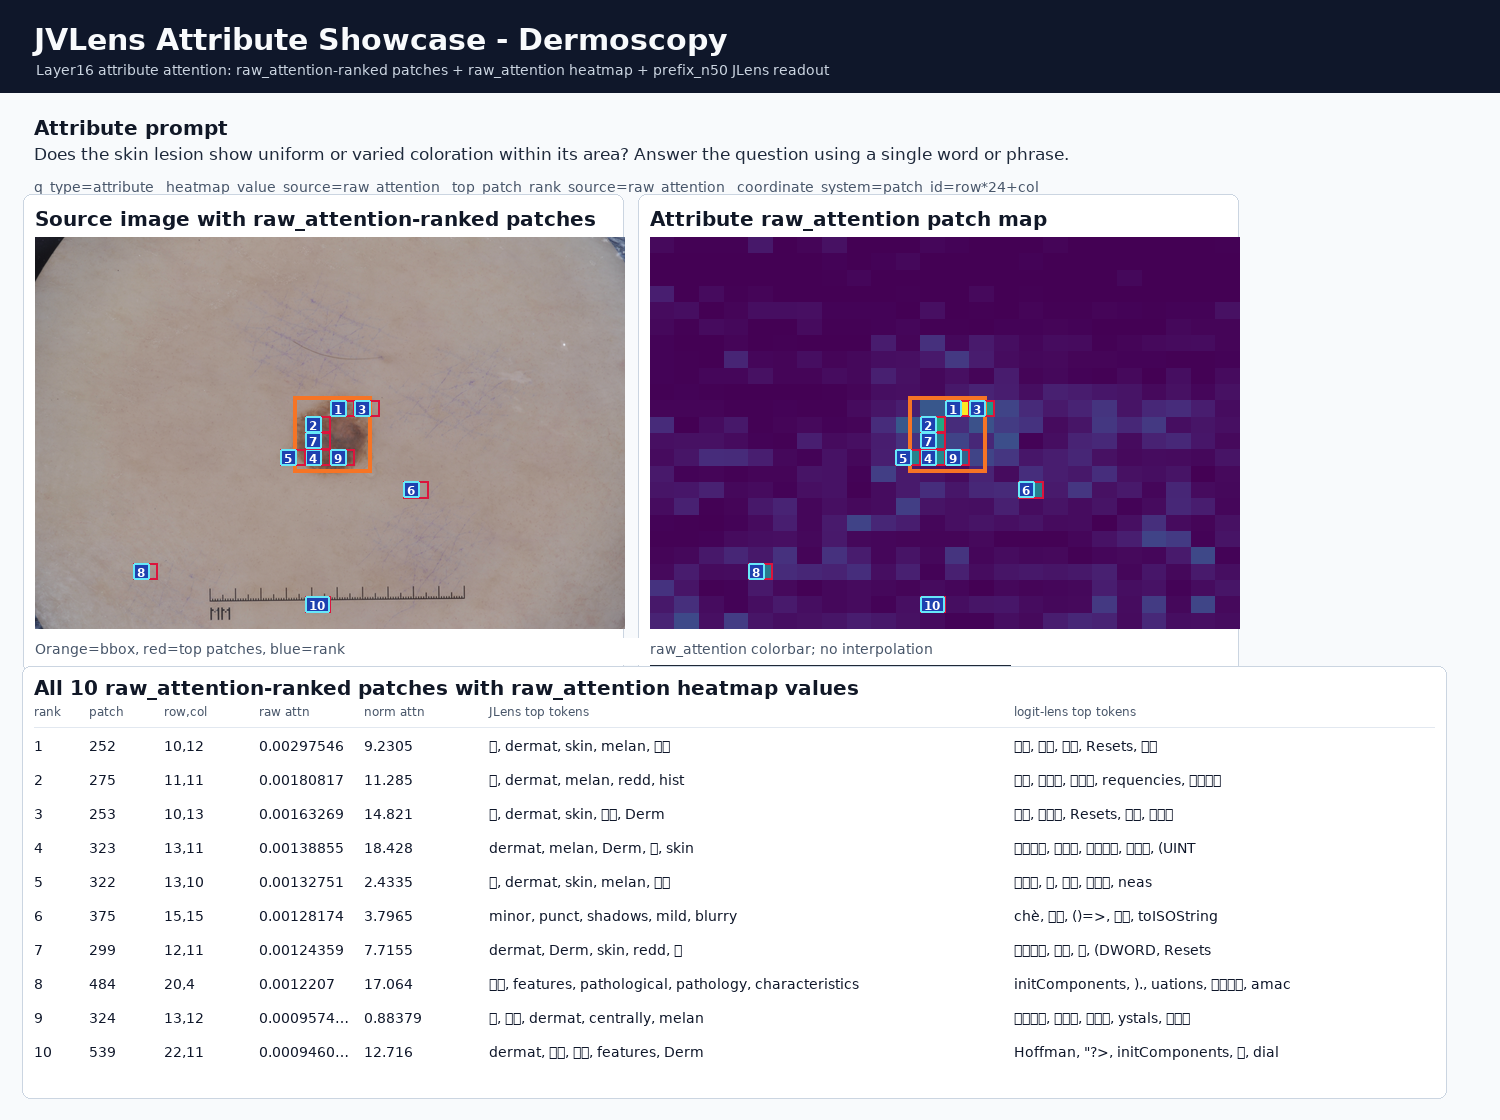
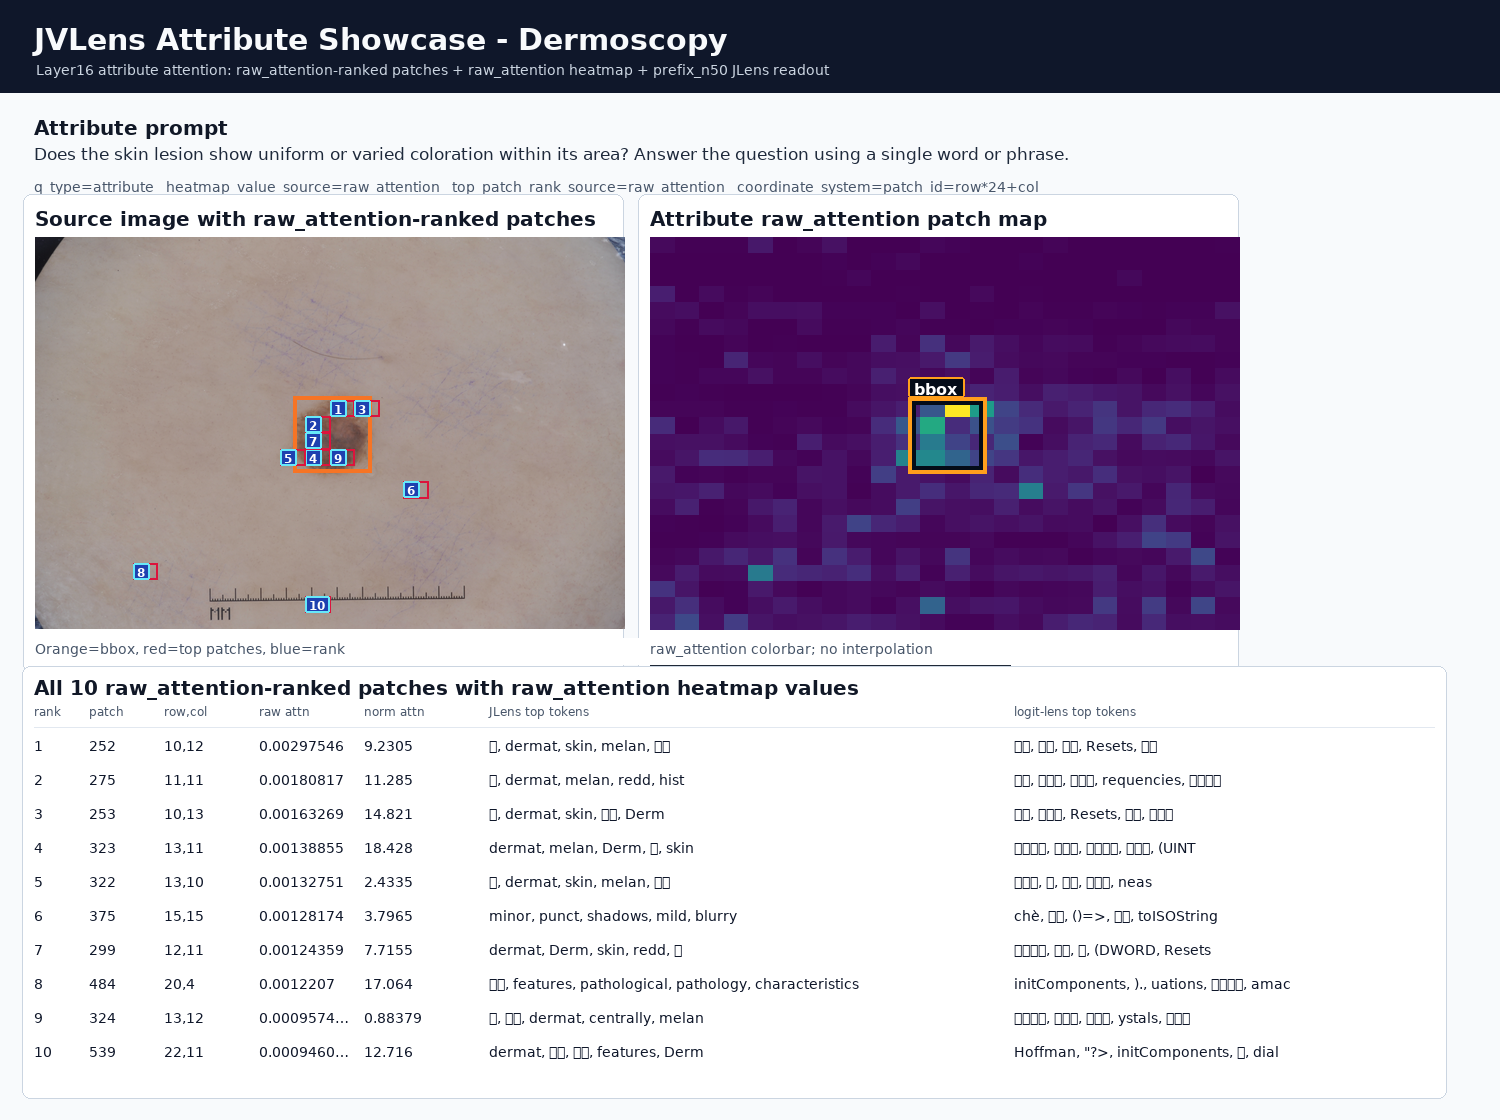
Remove right heatmap patch annotations

Changed region(s): [[0.5827, 0.3125, 0.7053, 0.4688], [0.6133, 0.5312, 0.644, 0.5625], [0.4907, 0.5, 0.5213, 0.5312]]

diff --git a/tests/test_static_contract.py b/tests/test_static_contract.py
@@ -77,6 +77,7 @@ def main() -> int:
     readme = (ROOT / "README.md").read_text(encoding="utf-8")
     assert_ok("raw_attention attribute maps" in readme, "README must describe raw_attention showcase maps")
     assert_ok("blue badges" in readme, "README must describe non-yellow rank badges")
+    assert_ok("right heatmap shows raw_attention + bbox only" in readme, "README must state right heatmap annotation contract")
     showcase_index_path = ROOT / "examples/showcase/showcase_index.json"
     assert_ok(showcase_index_path.is_file(), "missing showcase index")
     showcase_index = json.loads(showcase_index_path.read_text(encoding="utf-8"))
@@ -95,6 +96,9 @@ def main() -> int:
     assert_ok(showcase_index.get("overview_canvas_size") == [1500, 1120], "showcase overview canvas must be tall enough for all table rows")
     assert_ok(showcase_index.get("overview_table_visible_rows") == 10, "showcase overview must expose all 10 table rows")
     assert_ok(showcase_index.get("overview_rank_label_style") == "blue_badge_white_text_cyan_outline", "showcase rank labels must not use yellow badges")
+    assert_ok(showcase_index.get("right_heatmap_patch_annotations") is False, "right heatmap must not draw patch annotations")
+    assert_ok(showcase_index.get("right_heatmap_rank_labels") is False, "right heatmap must not draw rank labels")
+    assert_ok(showcase_index.get("right_heatmap_bbox_overlay") is True, "right heatmap must keep bbox overlay")
     index_transform = showcase_index.get("attention_map_transform", {})
     assert_ok(index_transform.get("patch_id_formula") == "patch_id = patch_row * 24 + patch_col", "showcase index patch id formula mismatch")
     assert_ok(index_transform.get("origin") == "top_left", "showcase index origin mismatch")
@@ -113,6 +117,9 @@ def main() -> int:
         assert_ok(sample.get("overview_canvas_size") == [1500, 1120], f"showcase sample canvas mismatch: {sample.get('slug')}")
         assert_ok(sample.get("overview_table_visible_rows") == 10, f"showcase sample must expose all 10 table rows: {sample.get('slug')}")
         assert_ok(sample.get("overview_rank_label_style") == "blue_badge_white_text_cyan_outline", f"showcase sample rank label style mismatch: {sample.get('slug')}")
+        assert_ok(sample.get("right_heatmap_patch_annotations") is False, f"right heatmap must not draw patch annotations: {sample.get('slug')}")
+        assert_ok(sample.get("right_heatmap_rank_labels") is False, f"right heatmap must not draw rank labels: {sample.get('slug')}")
+        assert_ok(sample.get("right_heatmap_bbox_overlay") is True, f"right heatmap must keep bbox overlay: {sample.get('slug')}")
         assert_ok(sample.get("overview_panel_note_layout") == "short_non_overlapping_panel_notes", f"showcase sample panel notes should be short: {sample.get('slug')}")
         overview_rel = sample["overview_png"]
         metadata_rel = sample["metadata_json"]
@@ -131,6 +138,9 @@ def main() -> int:
             metadata.get("overview_rank_label_style") == "blue_badge_white_text_cyan_outline",
             f"showcase rank labels must avoid yellow/viridis-high styling: {metadata_rel}",
         )
+        assert_ok(metadata.get("right_heatmap_patch_annotations") is False, f"right heatmap must not draw patch annotations: {metadata_rel}")
+        assert_ok(metadata.get("right_heatmap_rank_labels") is False, f"right heatmap must not draw rank labels: {metadata_rel}")
+        assert_ok(metadata.get("right_heatmap_bbox_overlay") is True, f"right heatmap must keep bbox overlay: {metadata_rel}")
         assert_ok(metadata.get("q_type") == "attribute", f"showcase metadata must be attribute: {metadata_rel}")
         assert_ok("__attribute__layer16" in metadata.get("sample_layer_id", ""), f"showcase sample_layer_id must be attribute: {metadata_rel}")
         assert_ok(metadata.get("attention_value_source") == "raw_attention", f"showcase metadata must use raw attention: {metadata_rel}")
@@ -147,6 +157,9 @@ def main() -> int:
         assert_ok(len(metadata.get("overview_table_patch_ids_available", [])) == 10, f"showcase metadata table patch count mismatch: {metadata_rel}")
         assert_ok(metadata.get("overview_table_no_clipping") is True, f"showcase metadata must mark table as unclipped: {metadata_rel}")
         assert_ok(metadata.get("overview_rank_label_style") == "blue_badge_white_text_cyan_outline", f"showcase rank label style mismatch: {metadata_rel}")
+        assert_ok(metadata.get("right_heatmap_patch_annotations") is False, f"showcase right heatmap patch annotation contract mismatch: {metadata_rel}")
+        assert_ok(metadata.get("right_heatmap_rank_labels") is False, f"showcase right heatmap rank label contract mismatch: {metadata_rel}")
+        assert_ok(metadata.get("right_heatmap_bbox_overlay") is True, f"showcase right heatmap bbox overlay contract mismatch: {metadata_rel}")
         assert_ok(metadata.get("overview_panel_note_layout") == "short_non_overlapping_panel_notes", f"showcase panel note layout mismatch: {metadata_rel}")
         transform = metadata.get("attention_map_transform", {})
         assert_ok(transform.get("patch_id_formula") == "patch_id = patch_row * 24 + patch_col", f"showcase patch id formula mismatch: {metadata_rel}")

diff --git a/README.md b/README.md
@@ -9,7 +9,7 @@ This staging package is prepared for review. It contains source code, documentat
 
 ## Showcase Examples
 
-These review images are sanitized static overviews copied from validated layer16 VG/JLens alignment outputs. They use attribute prompts, raw_attention attribute maps, and raw_attention-ranked top patches rendered in the same patch coordinate system; they embed only a small screenshot-style PNG per case, not standalone source images or datasets. The numbered patch ranks use blue badges so they are visually distinct from the viridis attention colors.
+These review images are sanitized static overviews copied from validated layer16 VG/JLens alignment outputs. They use attribute prompts, raw_attention attribute maps, and raw_attention-ranked top patches rendered in the same patch coordinate system; they embed only a small screenshot-style PNG per case, not standalone source images or datasets. The numbered patch ranks use blue badges on the source image and table so they are visually distinct from the viridis attention colors. The right heatmap shows raw_attention + bbox only; top patch ranks are not drawn on that panel.
 
 ### COCO
 